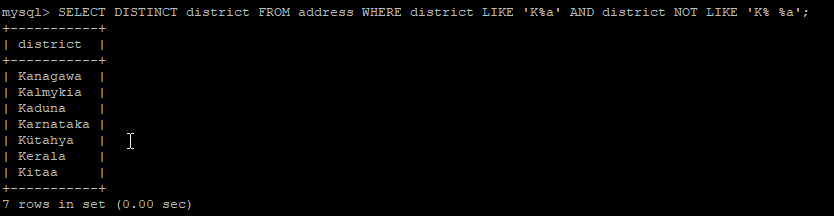
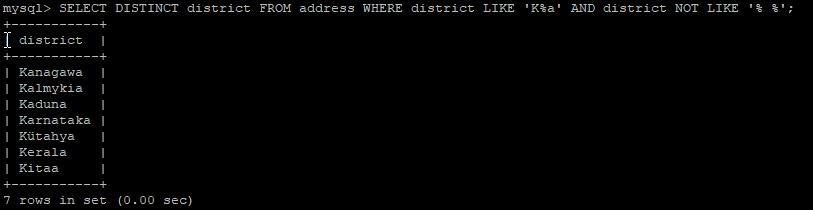
3st commit

diff --git a/readme.md b/readme.md
@@ -6,7 +6,7 @@
 и заканчиваются на “a” и не содержат пробелов.
 
 ```
-SELECT DISTINCT district FROM address WHERE district LIKE 'K%a' AND district NOT LIKE 'K% %a';
+SELECT DISTINCT district FROM address WHERE district LIKE 'K%a' AND district NOT LIKE '% %';
 ```
 
 ![job1](https://github.com/Prime2270/homework_netology-12-03/blob/main/screenshots/job1.png)
